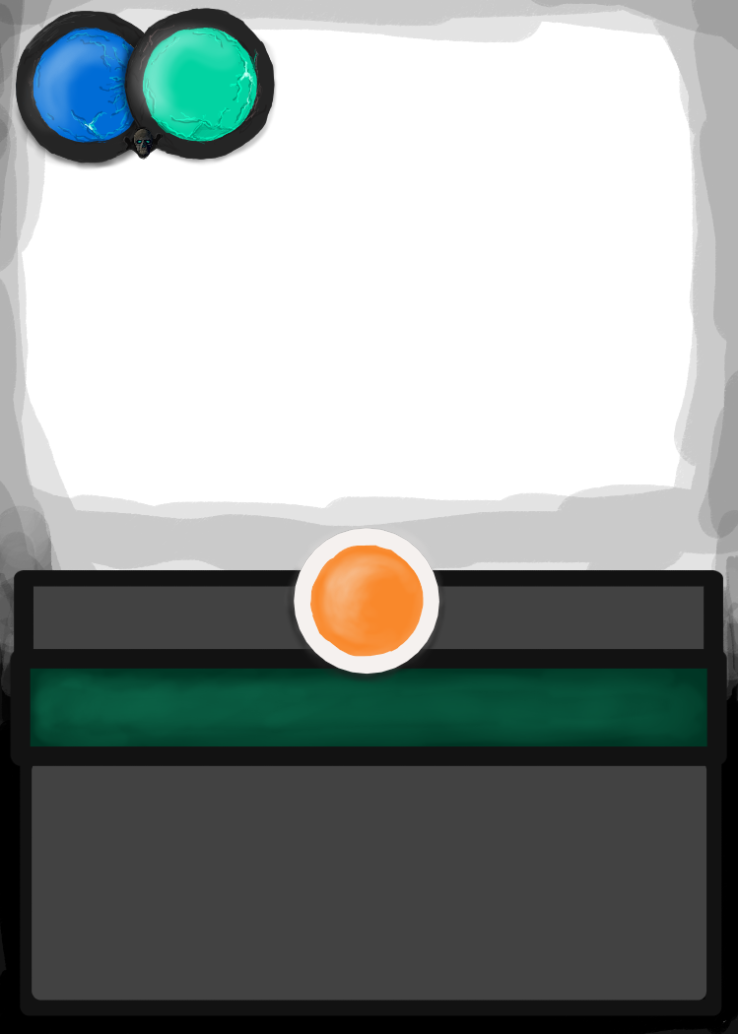
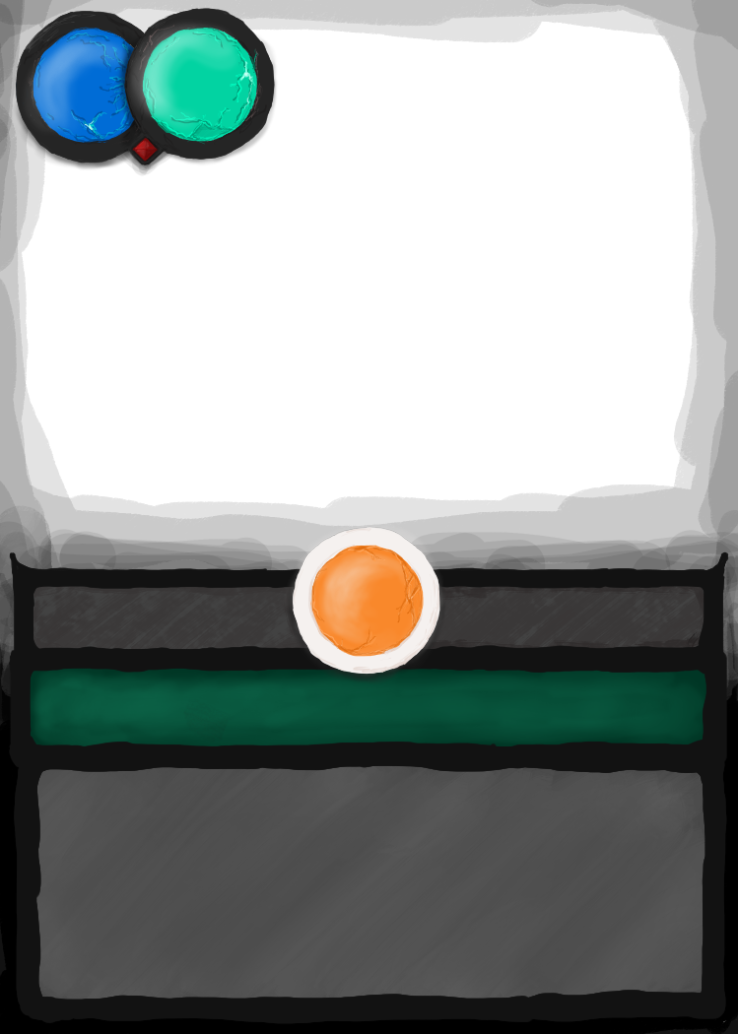
updated card design

diff --git a/src/app/cardsDB2.ts b/src/app/cardsDB2.ts
@@ -152,7 +152,7 @@ export const allCards = {
         costToPlay: 1,
         description: 'On play',
         description2: 'Trash the top card of your mana stack',
-        artSrc: 'necromancer.jpeg',
+        artSrc: 'corrupted-monk.jpeg',
         power: 3,
         move: 1,
     }),
@@ -172,17 +172,19 @@ export const allCards = {
 
     henchMan: new Card({
         type: 'creature',
-        name: 'Henchman',
+        creatureType: 'skeleton',
+        name: 'Undead mage',
         costToBuy: 5,
         costToPlay: 2,
         description: 'On play',
         description2: 'You may place this under a creature to increase its power by 2',
-        artSrc: 'https://cdna.artstation.com/p/assets/images/images/009/328/478/large/nicolas-dechezelles-king-s-assassin-a.jpg?1518372283',
+        artSrc: 'undead-mage.jpeg',
         power: 2,
         move: 1,
     }),
     myrmidon: new Card({
         type: 'creature',
+        creatureType: 'skeleton',
         name: 'Myrmidon',
         costToBuy: 5,
         costToPlay: 1,
@@ -195,6 +197,7 @@ export const allCards = {
 
     manaDrake: new Card({
         type: 'creature',
+        creatureType: 'winged',
         name: 'Mana Drake',
         costToBuy: 6,
         costToPlay: 1,
@@ -206,15 +209,18 @@ export const allCards = {
     }),
     raider: new Card({
         type: 'creature',
+        creatureType: 'skeleton',
         name: 'Village Raider',
         costToBuy: 6,
         costToPlay: 1,
         artSrc: 'raider.jpeg',
         power: 3,
         move: 2,
+        attributes: [Attribute.RUSH],
     }),
     captain: new Card({
         type: 'creature',
+        creatureType: 'ghoul',
         name: 'Siege Captain',
         costToBuy: 6,
         costToPlay: 1,
@@ -226,7 +232,8 @@ export const allCards = {
     }),
     sergeant: new Card({
         type: 'creature',
-        name: 'Training camp Sergeant',
+        creatureType: 'beast',
+        name: 'Werewolf',
         costToBuy: 6,
         costToPlay: 2,
         description: 'While on field',
@@ -238,6 +245,7 @@ export const allCards = {
 
     warHornBearer: new Card({
         type: 'creature',
+        creatureType: 'beast',
         name: 'War Horn Bearer',
         costToBuy: 7,
         costToPlay: 3,
@@ -250,6 +258,7 @@ export const allCards = {
     }),
     shieldLord: new Card({
         type: 'creature',
+        creatureType: 'beast',
         name: 'Shield Lord',
         costToBuy: 7,
         costToPlay: 1,
@@ -263,6 +272,7 @@ export const allCards = {
 
     behemoth: new Card({
         type: 'creature',
+        creatureType: 'monstrosity',
         name: 'Behemoth',
         costToBuy: 8,
         costToPlay: 4,
@@ -271,17 +281,18 @@ export const allCards = {
         artSrc: 'behemoth2.jpeg',
         power: 5,
         move: 1,
-        attributes: [Attribute.TRAMPLE]
+        attributes: []
     }),
     rockGiant: new Card({
         type: 'creature',
+        creatureType: 'monstrosity',
         name: 'Rock Giant',
         costToBuy: 8,
         costToPlay: 2,
         artSrc: 'rock-giant.jpeg',
         power: 5,
         move: 1,
-        attributes: [Attribute.TRAMPLE]
+        attributes: []
     }),
 
 

diff --git a/src/app/card/card.component.scss b/src/app/card/card.component.scss
@@ -2,8 +2,6 @@
 
 :host {
   display: block;
-  border: 1px solid black;
-  border-radius: 8px;
   box-shadow: rgb(243, 243, 243) 3px 5px 20px;
   width: $card-width;
   height: $card-height;
@@ -15,6 +13,8 @@
   position: relative;
   height: 100%;
   width: 100%;
+  border-radius: 10px;
+  overflow: hidden;
   > * {
     pointer-events: none;
   };
@@ -93,7 +93,7 @@
   z-index: 2;
   color: white;
   left: 50%;
-  top: $card-width * 0.855;
+  top: $card-width * 0.86;
   transform: translate(-50%, 0);
   text-transform: uppercase;
   letter-spacing: 1.5px;

diff --git a/src/styles.scss b/src/styles.scss
@@ -18,3 +18,7 @@ html, body {
   src: url('/assets/VarelaRound-Regular.ttf?#iefix') format('embedded-opentype'), /* IE6-IE8 */
   url('/assets/VarelaRound-Regular.ttf')  format('truetype');
 }
+
+:root {
+  --card-width: 160px;
+}

diff --git a/src/variables.scss b/src/variables.scss
@@ -1,2 +1,2 @@
-$card-width: 200px;
+$card-width: 180px;
 $card-height: $card-width * 1.3;
